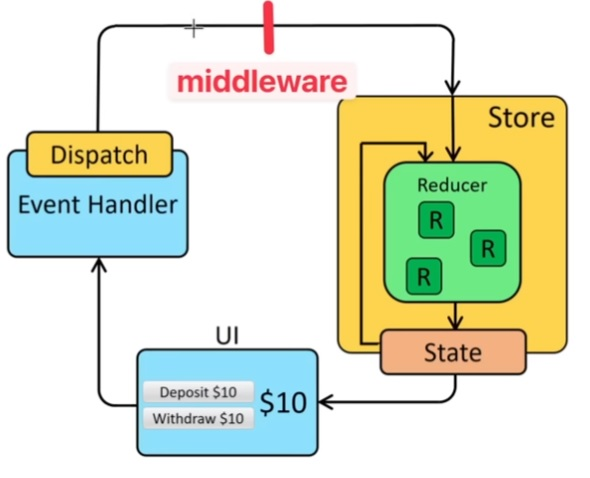
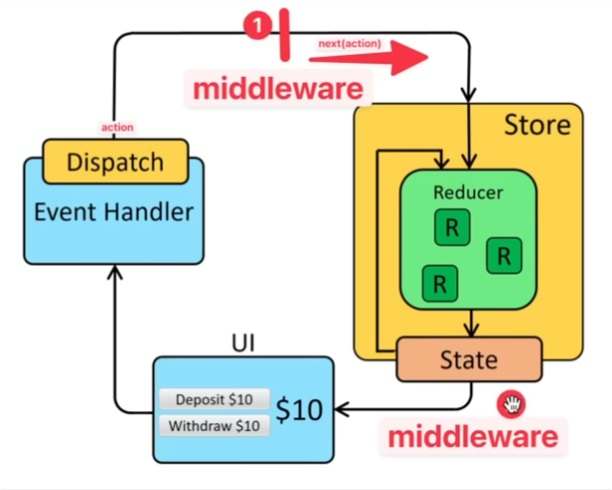
codigo y MD

Changed region(s): [[0.0, 0.0, 0.9763, 0.9665]]

diff --git a/src/store/index.ts b/src/store/index.ts
@@ -1,26 +1,55 @@
 // STORE
 import { configureStore, type Middleware } from "@reduxjs/toolkit";
-import usersReducer from "./users/slice";
+import { toast } from "sonner";
+import usersReducer, { rollbackUser } from "./users/slice";
 
 // Middlewares///
 // Podemos ponerle TYPES a los MIDDLEWARE
+// Persistimos
 const persistanceLocalStorageMiddleware: Middleware =
 	(store) => (next) => (action) => {
 		next(action); // Recibe la accion. Pasa a la siguiente
 		localStorage.setItem("__redux__state__", JSON.stringify(store.getState()));
 	};
 
-const syncWithDatabase: Middleware = (store) => (next) => (action) => {
-	console.log({ action, state: store.getState() });
-	next(action); // Recibimos la accion
-};
+// Sincronizamos
+const syncWithDatabaseMiddleware: Middleware =
+	(store) => (next) => (action) => {
+		const { type, payload } = action;
+		const previusState = store.getState(); // Tenemos el estado anterior
+
+		// Fase 1
+		next(action); // Recibimos la accion (Pasamos FASE siguiente)
+		// Fase 2
+		if (type === "users/deleteUserById") {
+			const userIdToremove = payload;
+			const userToRemove = previusState.users.find(
+				(user) => user.id === payload,
+			); // Buscamos el usuario a eliminar
+			fetch(`https://jsonplaceholder.typicode.com/users/${payload}`, {
+				method: "DELETE",
+			})
+				.then((res) => {
+					if (res.ok) {
+						toast.success(`User ${payload} succefully deleted`);
+					}
+					throw new Error("Error to delete user");
+				})
+				.catch((err) => {
+					toast.error(`Error deleting user ${userIdToremove}`);
+					if (userToRemove) store.dispatch(rollbackUser(userToRemove));
+					console.log(err);
+					console.log("error");
+				});
+		}
+	};
 ////////////////
 
 export const store = configureStore({
 	reducer: {
 		users: usersReducer,
 	},
-	middleware: [persistanceLocalStorageMiddleware],
+	middleware: [persistanceLocalStorageMiddleware, syncWithDatabaseMiddleware],
 });
 
 // Exportamos los TYPES

diff --git a/src/store/users/slice.ts b/src/store/users/slice.ts
@@ -72,6 +72,17 @@ export const usersSlice = createSlice({
 			// Devuelve un nuevo estado
 			return state.filter((user) => user.id !== id); // Filtramos ese estado: los usuario q sean diferentes a esa ID que nos pasaron
 		},
+		// Si ya hemos hecho un ROLLBACK de un determinado USER
+		// Tenemos que evitar meterlo por duplicado
+		rollbackUser: (state, action: PayloadAction<UserWithId>) => {
+			const isUserAlreadyDefined = state.find(
+				(user) => user.id === action.payload.id,
+			);
+			if (!isUserAlreadyDefined) {
+				// Si NO esta definido
+				return [...state, action.payload]; // Metemos el usuario
+			}
+		},
 	},
 });
 
@@ -79,4 +90,4 @@ export const usersSlice = createSlice({
 export default usersSlice.reducer;
 
 // Exportamos esta accion
-export const { addNewUser, deleteUserById } = usersSlice.actions;
+export const { addNewUser, deleteUserById, rollbackUser } = usersSlice.actions;

diff --git a/README.md b/README.md
@@ -1,4 +1,8 @@
-# Librerias a utilizar en este proyecto
+# REDUX TOOLKIT
+
+Esta es la forma predeterminada de utilizar REDUX y su control de los estados.
+
+## Librerias a utilizar en este proyecto
 
 En vez de utilizar el clásico LINTER, en esta ocasion utilizaremos BIOME, quienes continuan con el legado de ROME (ya sin soporte).
 
@@ -145,3 +149,8 @@ Podemos utilizar esta libreria para gestionar las notificaciones, lo instalamos 
 ```
 npm install sonner
 ```
+
+## Rollback STATE
+
+Esto nos permite recuperar un estado anterior y volver a colocarlo en caso de que algo haya salido mal.
+En la UI podemos ver reflejado el cambio que ocurrio con el evento, pero si hay un error de cualquier tipo, ya sea en la base de datos por ejemplo, el estado retrocede y vuelve a como esataba antes. En ese caso podemos mostrar un error, o simplemente como vuelve ese cambio a como estaba.
